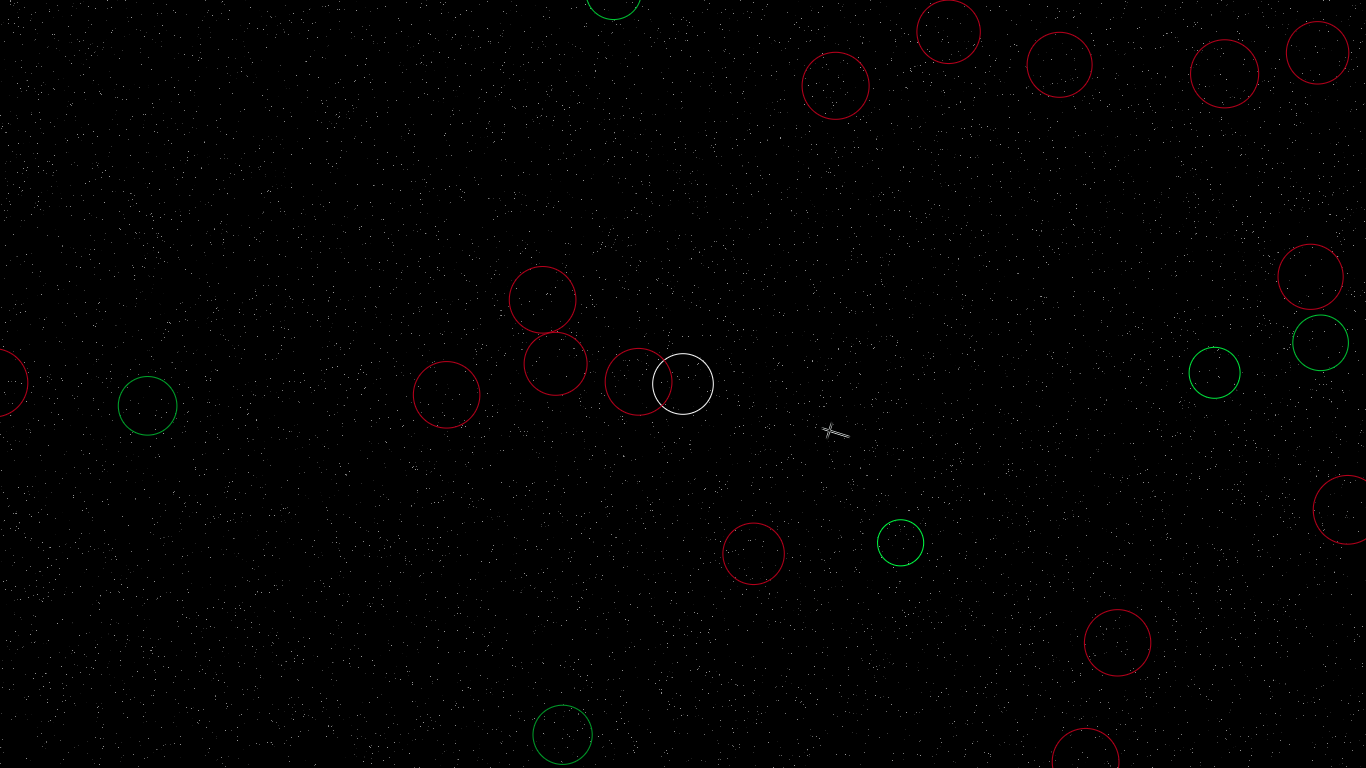
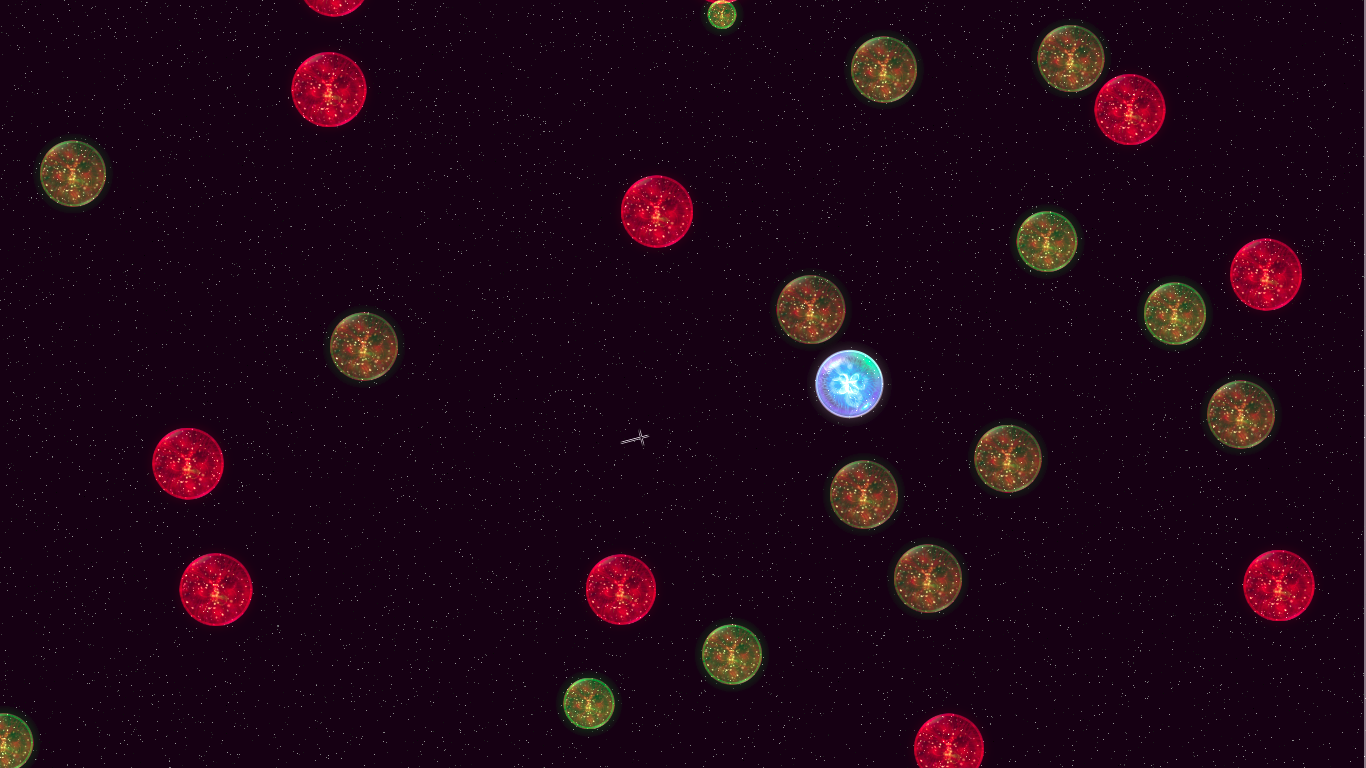
More stetic changes

diff --git a/js/bubble.js b/js/bubble.js
@@ -23,6 +23,8 @@ var Bubble = function(game, options) {
   this.y = options.y || 0;
   this.a = 0;
   this.friction = 0.01;
+  this.img=new Image();
+  this.img.src="./img/bubble.png"
 };
 Bubble.prototype.move = function() {
   this.r=Math.log(this.m)*4
@@ -51,16 +53,22 @@ Bubble.prototype.draw = function() {
   var x=this.x-this.game.x
   var y=this.y-this.game.y
   context.moveTo(x,y);
-  context.strokeStyle = this.proportionalColor();
-  context.fillStyle = this.proportionalColor()+"33";
+  try{context.drawImage(this.img, x-this.r-2, y-this.r-2,this.r*2+4, this.r*2+4);}
+  catch(e){}
+  
+  context.strokeStyle = this.proportionalColor()+"66";
+  context.fillStyle = this.proportionalColor()+"22";
   
   context.beginPath();
   context.globalCompositeOperation="lighter"
-  context.shadowBlur=5;
+  context.shadowColor=this.proportionalColor();
+  
+  context.shadowBlur=15;
   context.arc(x, y, this.r, 0, Math.PI * 180, true);
   context.fill();
   context.arc(x, y, this.r+1, 0, Math.PI * 180, true);
   context.stroke();
+  context.shadowBlur=0
   context.closePath();
 };
 Bubble.prototype.boost = function(fArg, angleArg) {

diff --git a/js/background.js b/js/background.js
@@ -14,6 +14,14 @@ Background.prototype.createBackground=function(){
       this.background.data[i+2]=random;
       this.background.data[i+3]=255;
     }else{
+      this.background.data[i]=12;
+      this.background.data[i+1]=0;
+      this.background.data[i+2]=12;
+      this.background.data[i+3]=255;
+    }
+  }
+  for(var i=0;i <this.background.data.length;i+=4){
+    if(i<this.game.w*16){
       this.background.data[i]=0;
       this.background.data[i+1]=0;
       this.background.data[i+2]=0;

diff --git a/scss/style.scss b/scss/style.scss
@@ -53,7 +53,7 @@ button{
   color: $accent-color;
   padding:30px 60px 60px;
   border:1px solid $accent-color;
-  background-color: $main-color;
+  background-color: transparent;
   font-size: 30px;
   text-align: center;
 

diff --git a/css/style.css b/css/style.css
@@ -50,7 +50,7 @@ button {
   color: white;
   padding: 30px 60px 60px;
   border: 1px solid white;
-  background-color: rgba(0, 0, 0, 0.75);
+  background-color: transparent;
   font-size: 30px;
   text-align: center; }
 

diff --git a/js/player.js b/js/player.js
@@ -11,6 +11,7 @@ var Player = function (game,id) {
   this.vy = 0;
   this.a = 0;
   this.angle = 0;
+  this.img.src="./img/player.png"
   this.crossHair = new CrossHair(this);
   this.start();
 }
